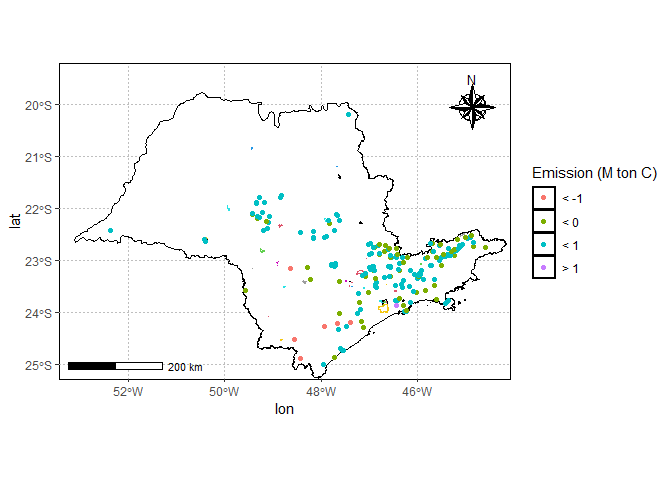
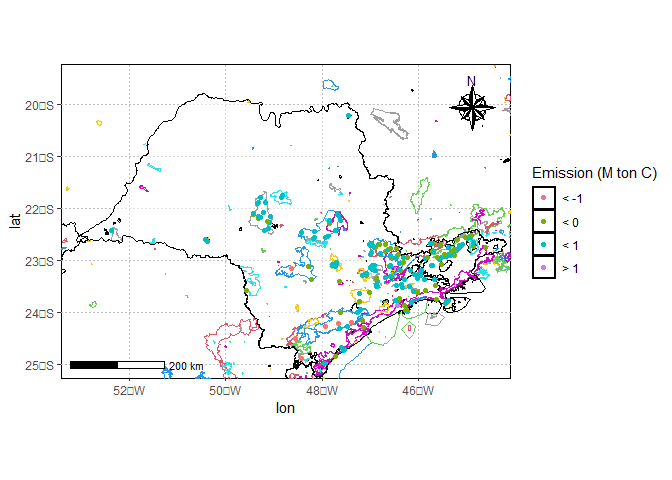
mudança no mapa das u.c

diff --git a/README.md b/README.md
@@ -29,25 +29,35 @@ MCG](https://raw.githubusercontent.com/arpanosso/curso-gp-03-climate-trace/maste
 
 ``` r
 library(tidyverse)
+#> Warning: package 'tidyverse' was built under R version 4.2.3
+#> Warning: package 'ggplot2' was built under R version 4.2.3
+#> Warning: package 'tibble' was built under R version 4.2.3
+#> Warning: package 'tidyr' was built under R version 4.2.3
+#> Warning: package 'readr' was built under R version 4.2.3
+#> Warning: package 'purrr' was built under R version 4.2.3
+#> Warning: package 'dplyr' was built under R version 4.2.3
+#> Warning: package 'forcats' was built under R version 4.2.3
+#> Warning: package 'lubridate' was built under R version 4.2.3
 #> ── Attaching core tidyverse packages ──────────────────────── tidyverse 2.0.0 ──
-#> ✔ dplyr     1.1.4     ✔ readr     2.1.5
-#> ✔ forcats   1.0.0     ✔ stringr   1.5.1
-#> ✔ ggplot2   3.5.1     ✔ tibble    3.2.1
-#> ✔ lubridate 1.9.3     ✔ tidyr     1.3.1
-#> ✔ purrr     1.0.2     
+#> ✔ dplyr     1.1.2     ✔ readr     2.1.4
+#> ✔ forcats   1.0.0     ✔ stringr   1.5.0
+#> ✔ ggplot2   3.5.0     ✔ tibble    3.2.1
+#> ✔ lubridate 1.9.2     ✔ tidyr     1.3.0
+#> ✔ purrr     1.0.1     
 #> ── Conflicts ────────────────────────────────────────── tidyverse_conflicts() ──
 #> ✖ dplyr::filter() masks stats::filter()
 #> ✖ dplyr::lag()    masks stats::lag()
 #> ℹ Use the conflicted package (<http://conflicted.r-lib.org/>) to force all conflicts to become errors
 library(treemapify)
+#> Warning: package 'treemapify' was built under R version 4.2.3
 library(geobr)
 #> Loading required namespace: sf
 source("R/base_map.R")
 source("R/my_function.R")
-#> Using year/date 2010
-#> Using year/date 2019
-#> Using year/date 201909
-#> Using year/date 201907
+#> Using year 2010
+#> Using year 2019
+#> Using year 201909
+#> Using year 201907
 ```
 
 ``` r
@@ -79,9 +89,10 @@ conservacao <- read_rds("data/conservacao.rds")
 
 ``` r
 estados <- geobr::read_state()
-#> Using year/date 2010
+#> Using year 2010
+#>   |                                                                              |                                                                      |   0%
 conservacao <- geobr::read_conservation_units()
-#> Using year/date 201909
+#> Using year 201909
 conservacao %>%
   filter(str_detect(name_organization,"SP"))
 #> Simple feature collection with 44 features and 14 fields
@@ -172,11 +183,13 @@ estados  %>%
   filter(name_state=="São Paulo") %>%
   ggplot() +
     geom_sf(fill="white", color="black",
-          size=.15, show.legend = FALSE) +
-  geom_sf(data=conservacao %>%
-            filter(str_detect(name_organization,"SP")),
+          size=.15, show.legend = FALSE,
+          alpha=.5) +
+  geom_sf(data=conservacao #%>%
+            #filter(str_detect(name_organization,"SP"))
+          ,
          color= conservacao %>%
-           filter(str_detect(name_organization,"SP")) %>%
+           #filter(str_detect(name_organization,"SP")) %>%
            pull(code_conservation_unit),
          fill=NA)+
   geom_sf(fill=NA, color="black",
